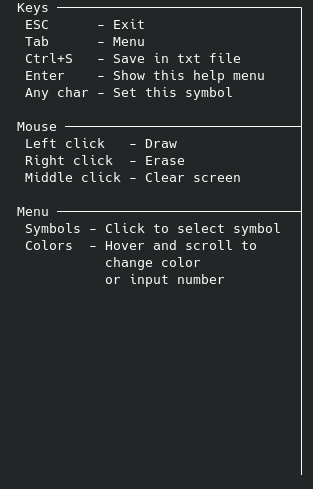
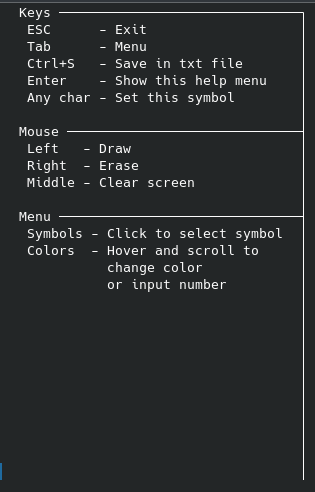
screen upd

diff --git a/menu.go b/menu.go
@@ -51,9 +51,9 @@ var menu = []menuItem{
 		width: helpWidth,
 		end:   "┤",
 		item: []string{
-			"Left click   - Draw",
-			"Right click  - Erase",
-			"Middle click - Clear screen",
+			"Left   - Draw",
+			"Right  - Erase",
+			"Middle - Clear screen",
 		},
 	},
 	{
